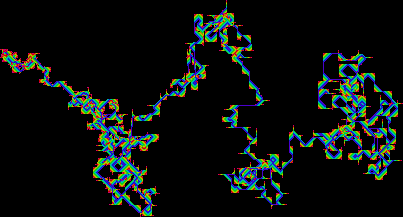
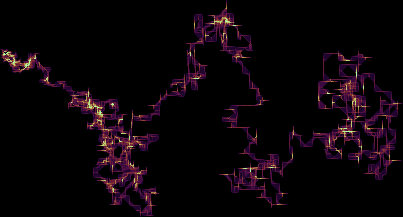
safety commit

Changed region(s): [[0.0, 0.0276, 1.0, 0.9954]]

diff --git a/src/day12/Day12.java b/src/day12/Day12.java
@@ -1,0 +1,138 @@
+package day12;
+
+import filehandlers.FileReader;
+
+import javax.imageio.ImageIO;
+import java.awt.*;
+import java.awt.image.BufferedImage;
+import java.io.File;
+import java.io.IOException;
+import java.util.*;
+import java.util.List;
+
+public class Day12 {
+
+    private final FileReader reader = new FileReader();
+
+    private char[][] grid;
+    private boolean[][] visited;
+    private Vector2Int size;
+
+    public static void main(String[] args) {
+        var day = new Day12();
+        day.solve("example");
+    }
+
+    private void solve(String fileName) {
+        var lines = reader.read("src/day12/files/" + fileName);
+
+        GridParser parser = new GridParser();
+        grid = parser.parseLines(lines);
+        size = new Vector2Int(grid[0].length, grid.length);
+        System.out.println("size: " + size);
+
+        var result = findPath2(parser.getStartPos(), parser.getEndPos());
+
+        System.out.println("part1: " + result);
+    }
+
+    private int findPath2(Vector2Int startPos, Vector2Int endPos) {
+        Vector2Int[] dirs = {
+                Vector2Int.down(),
+                Vector2Int.right(),
+                Vector2Int.up(),
+                Vector2Int.left()};
+
+        var pos = startPos;
+        int steps = 0;
+
+        while (true) {
+            char height = pos.equals(startPos) ? 'a' : grid[pos.getY()][pos.getX()];
+
+            List<Vector2Int> possibleMoves = new LinkedList<>();
+            for (var dir : dirs) {
+                var newPos = pos.add(dir);
+                if (newPos.equals(endPos)) {
+                    return steps + 1;
+                }
+                if (isValid(newPos, height)) {
+                    possibleMoves.add(newPos);
+                }
+            }
+            steps++;
+            pos = possibleMoves.stream()
+                    .max(Comparator.comparing(p -> grid[p.getY()][p.getX()]))
+                    .orElse(startPos);
+        }
+    }
+
+    private int findPath(Vector2Int startPos, Vector2Int endPos) {
+         Vector2Int[] dirs = {
+                Vector2Int.down(),
+                Vector2Int.right(),
+                Vector2Int.up(),
+                Vector2Int.left()};
+
+        Queue<Vector2Int> queue = new LinkedList<>();
+        queue.add(startPos);
+
+        boolean[][] visited = new boolean[size.getY()][size.getX()];
+
+        int steps = 0;
+
+        Vector2Int newPos;
+        while (!queue.isEmpty()) {
+            var pos = queue.remove();
+            char height = grid[pos.getY()][pos.getX()];
+            height = height == 'S' ? 'a' : height;
+            steps++;
+
+            for (int i = 0; i < 4; i++) {
+                newPos = pos.add(dirs[i]);
+
+                if (newPos.equals(endPos)) {
+                    drawImage(visited, "path");
+                    return steps;
+                }
+                if (isValid(newPos, height, visited)) {
+                    queue.add(newPos);
+                    visited[newPos.getY()][newPos.getX()] = true;
+                }
+            }
+        }
+        return 3;
+    }
+
+    private boolean isValid(Vector2Int newPos, char height, boolean[][] visited) {
+        if (newPos.getX() >= 0 && newPos.getX() < size.getX() && newPos.getY() >= 0 && newPos.getY() < size.getY()) {
+            if (!visited[newPos.getY()][newPos.getX()]) {
+                char newHeight = grid[newPos.getY()][newPos.getX()];
+                return newHeight == height || newHeight == height + 1;
+            }
+        }
+        return false;
+    }
+
+    private boolean isValid(Vector2Int pos, char height) {
+        if (pos.getX() >= 0 && pos.getX() < size.getX() && pos.getY() >= 0 && pos.getY() < size.getY()) {
+            char newHeight = grid[pos.getY()][pos.getX()];
+            return newHeight == height || newHeight == height + 1;
+        }
+        return false;
+    }
+
+    private void drawImage(boolean[][] visited, String fileName) {
+        BufferedImage image = new BufferedImage(size.getX(), size.getY(), BufferedImage.TYPE_INT_RGB);
+        for (int y = 0; y < visited.length; y++) {
+            for (int x = 0; x < visited[0].length; x++) {
+                image.setRGB(x, y, visited[y][x] ? Color.BLACK.getRGB() : Color.WHITE.getRGB());
+            }
+        }
+        try {
+            ImageIO.write(image, "png", new File( "src/day12/files/" + fileName + "_out.png"));
+            System.out.println(fileName + " image file created.");
+        } catch (IOException e) {
+            System.out.println("Could not write image file.");
+        }
+    }
+}

diff --git a/src/day12/Vector2Int.java b/src/day12/Vector2Int.java
@@ -1,0 +1,90 @@
+package day12;
+
+import java.util.Objects;
+
+public class Vector2Int {
+    private int x;
+    private int y;
+
+    public Vector2Int(int x, int y) {
+        this.x = x;
+        this.y = y;
+    }
+
+    public Vector2Int clone() {
+        return new Vector2Int(x, y);
+    }
+
+    public int getX() {
+        return x;
+    }
+
+    public int getY() {
+        return y;
+    }
+
+    public Vector2Int add(Vector2Int delta) {
+        return new Vector2Int(x + delta.x, y + delta.y);
+    }
+
+    public Vector2Int addLimited(Vector2Int delta, Vector2Int size) {
+        return new Vector2Int(limit(this.x + delta.x, size.x - 1), limit(this.y + delta.y, size.y - 1));
+    }
+
+    public void translate(Vector2Int delta) {
+        this.x += delta.x;
+        this.y += delta.y;
+    }
+
+    public void moveLimited(Vector2Int delta, Vector2Int size) {
+        this.x = limit(this.x + delta.x, size.x - 1);
+        this.y = limit(this.y + delta.y, size.y - 1);
+    }
+
+    private int limit(int value, int max) {
+        value = Math.max(0, value);
+        return Math.min(max, value);
+    }
+
+    public int getSquareLength() {
+        return (x * x) + (y * y);
+    }
+
+    public double getLength() {
+        return Math.sqrt(getSquareLength());
+    }
+
+    public static Vector2Int up() {
+        return new Vector2Int(0, -1);
+    }
+    public static Vector2Int down() {
+        return new Vector2Int(0, 1);
+    }
+    public static Vector2Int left() {
+        return new Vector2Int(-1, 0);
+    }
+    public static Vector2Int right() {
+        return new Vector2Int(1, 0);
+    }
+    public static Vector2Int zero() {
+        return new Vector2Int(0, 0);
+    }
+
+    @Override
+    public boolean equals(Object o) {
+        if (this == o) return true;
+        if (o == null || getClass() != o.getClass()) return false;
+        Vector2Int that = (Vector2Int) o;
+        return x == that.x && y == that.y;
+    }
+
+    @Override
+    public int hashCode() {
+        return Objects.hash(x, y);
+    }
+
+    @Override
+    public String toString() {
+        return x + " " + y;
+    }
+}

diff --git a/src/day11/MonkeyParser.java b/src/day11/MonkeyParser.java
@@ -27,24 +27,26 @@ public class MonkeyParser {
                 case "Starting items" -> items = new LinkedList<>(Arrays.stream(info[1].split(", "))
                             .map(Long::valueOf)
                             .toList());
-                case "Operation" -> {
-                    String[] s = info[1].split("= old ")[1].split("\\s");
-                    if (s[1].equals("old")) {
-                        operation = (x) -> x * x;
-                    } else {
-                        int value = Integer.parseInt(s[1]);
-                        if (s[0].charAt(0) == '*') {
-                            operation = (x) -> x * value;
-                        } else if (s[0].charAt(0) == '+') {
-                            operation = (x) -> x + value;
-                        }
-                    }
-                }
+                case "Operation" -> operation = parseOperation(info[1].split("= old ")[1]);
                 case "Test" -> divisibleBy = Integer.parseInt(info[1].split("by ")[1]);
                 case "If true", "If false" -> targets.add(Integer.parseInt(info[1].split("monkey ")[1]));
             }
         }
         monkeys.add(new Monkey(items, operation, divisibleBy, targets));
         return monkeys;
+    }
+
+    private Function<Long, Long> parseOperation(String operation) {
+        String[] s = operation.split("\\s");
+        if (s[1].equals("old")) {
+            return (x) -> x * x;
+        }
+        int value = Integer.parseInt(s[1]);
+        if (s[0].charAt(0) == '*') {
+            return (x) -> x * value;
+        } else if (s[0].charAt(0) == '+') {
+            return (x) -> x + value;
+        }
+        throw new UnsupportedOperationException("Only * and + are supported");
     }
 }

diff --git a/src/day9/KnotsParserWithImage.java b/src/day9/KnotsParserWithImage.java
@@ -43,16 +43,16 @@ public class KnotsParserWithImage {
 //        System.out.println(maxX + ", " + maxY);
 //        System.out.println(minX + ", " + minY);
 
-//        int highest = 0;
-//        for (int y = 0; y < visited.length; y++) {
-//            for (int x = 0; x < visited[0].length; x++) {
-//                highest = Math.max(highest, visited[y][x]);
-//                float b = Math.min(visited[y][x] / 92f, 1f);
-//                b = (float) Math.sqrt(b);
-//                image.setRGB(x, y, Color.HSBtoRGB(.8f + (b*.5f), 1f - (b *.8f), b));
-//            }
-//        }
-//        System.out.println("hi: " + highest);
+        int highest = 0;
+        for (int y = 0; y < visited.length; y++) {
+            for (int x = 0; x < visited[0].length; x++) {
+                highest = Math.max(highest, visited[y][x]);
+                float b = Math.min(visited[y][x] / 66f, 1f);
+                b = (float) Math.sqrt(b);
+                image.setRGB(x, y, Color.HSBtoRGB(.66f + (b*.66f), 1f - (b *.66f), b));
+            }
+        }
+        System.out.println("hi: " + highest);
 
         return visitedString.size();
     }
@@ -64,9 +64,9 @@ public class KnotsParserWithImage {
             updateTail();
             visitedString.add(Arrays.toString(knotPos[knotPos.length - 1]));
             visited[knotPos[0][1] + 51][knotPos[0][0] + 7]++;
-            for (int j = numberOfTails; j >= 0; j--) {
-                image.setRGB(knotPos[j][0] + 7, knotPos[j][1] + 51, Color.HSBtoRGB((j-1)/11f, 1f, .8f));
-            }
+//            for (int j = 0; j <= numberOfTails; j++) {
+//                image.setRGB(knotPos[j][0] + 7, knotPos[j][1] + 51, Color.HSBtoRGB((j-1)/11f, 1f, .8f));
+//            }
         }
     }
 

diff --git a/src/day12/GridParser.java b/src/day12/GridParser.java
@@ -1,0 +1,33 @@
+package day12;
+
+import java.util.List;
+
+public class GridParser {
+
+    private Vector2Int startPos;
+    private Vector2Int endPos;
+
+    public char[][] parseLines(List<String> lines) {
+        var grid = new char[lines.size()][lines.get(0).length()];
+        for (int y = 0; y < lines.size(); y++) {
+            for (int x = 0; x < lines.get(0).length(); x++) {
+                char c = lines.get(y).charAt(x);
+                grid[y][x] = c;
+                if (c == 'S') {
+                    startPos = new Vector2Int(x, y);
+                } else if (c == 'E') {
+                    endPos = new Vector2Int(x, y);
+                }
+            }
+        }
+        return grid;
+    }
+
+    public Vector2Int getStartPos() {
+        return startPos;
+    }
+
+    public Vector2Int getEndPos() {
+        return endPos;
+    }
+}
